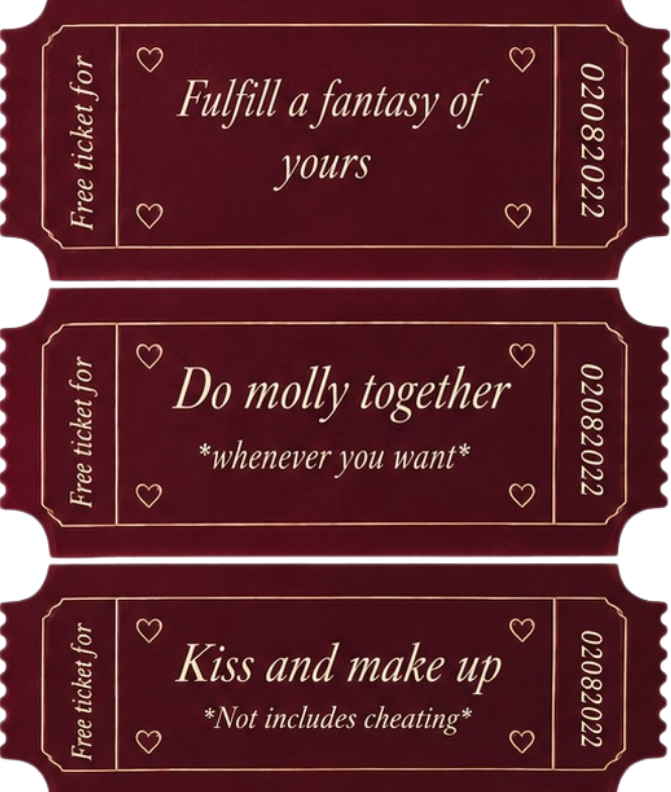
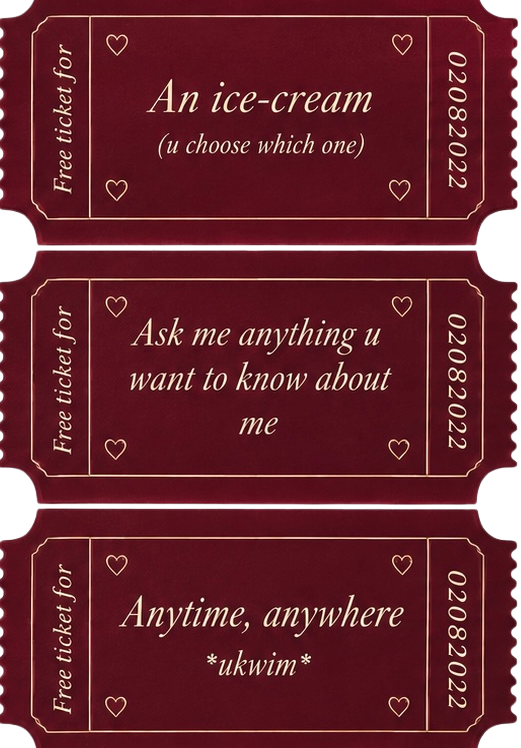
Coupon edit

Changed region(s): [[0.0, 0.0, 1.0, 1.0]]

diff --git a/src/routes/index.tsx b/src/routes/index.tsx
@@ -153,12 +153,12 @@ function Index() {
           </h2>
           <div className="mx-auto mt-4 h-px w-16 bg-primary/50" />
           <div className="mt-12 flex flex-row flex-nowrap items-center justify-center gap-4">
-            {["/1.png", "/2.png", "/3.png"].map((src, i) => (
+            {["/1.png", "/2.png", "/3.png","/4.png"].map((src, i) => (
               <img
                 key={i}
                 src={src}
                 alt={`Free Pass Ticket ${i + 1}`}
-                className="h-auto w-auto max-h-[160px] sm:max-h-[240px] max-w-[30%] rounded-lg object-contain"
+                className="h-auto w-auto max-h-[240px] sm:max-h-[320px] max-w-[25%] rounded-lg object-contain"
               />
             ))}
 
